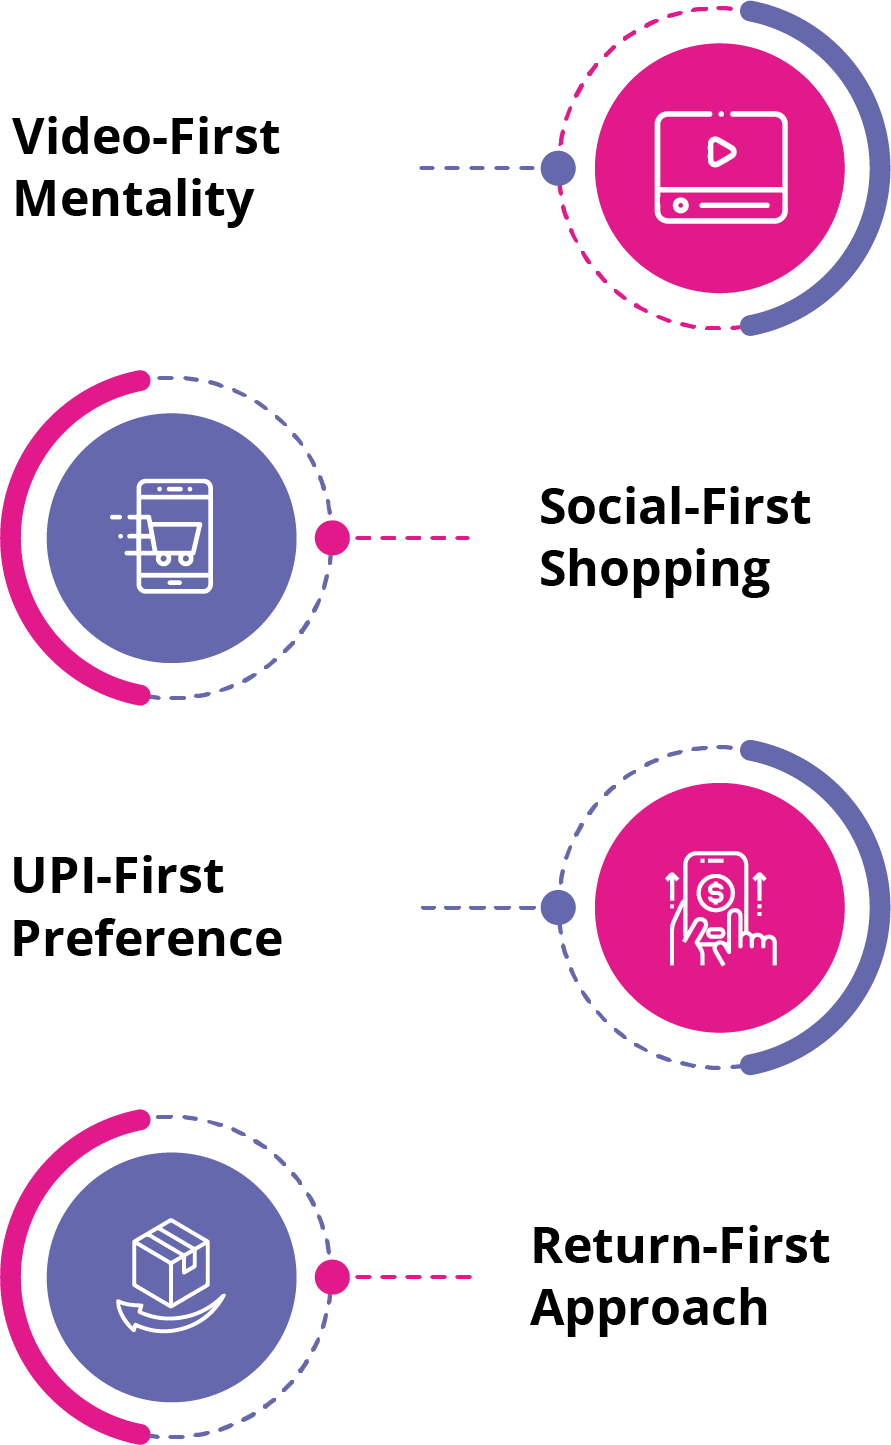
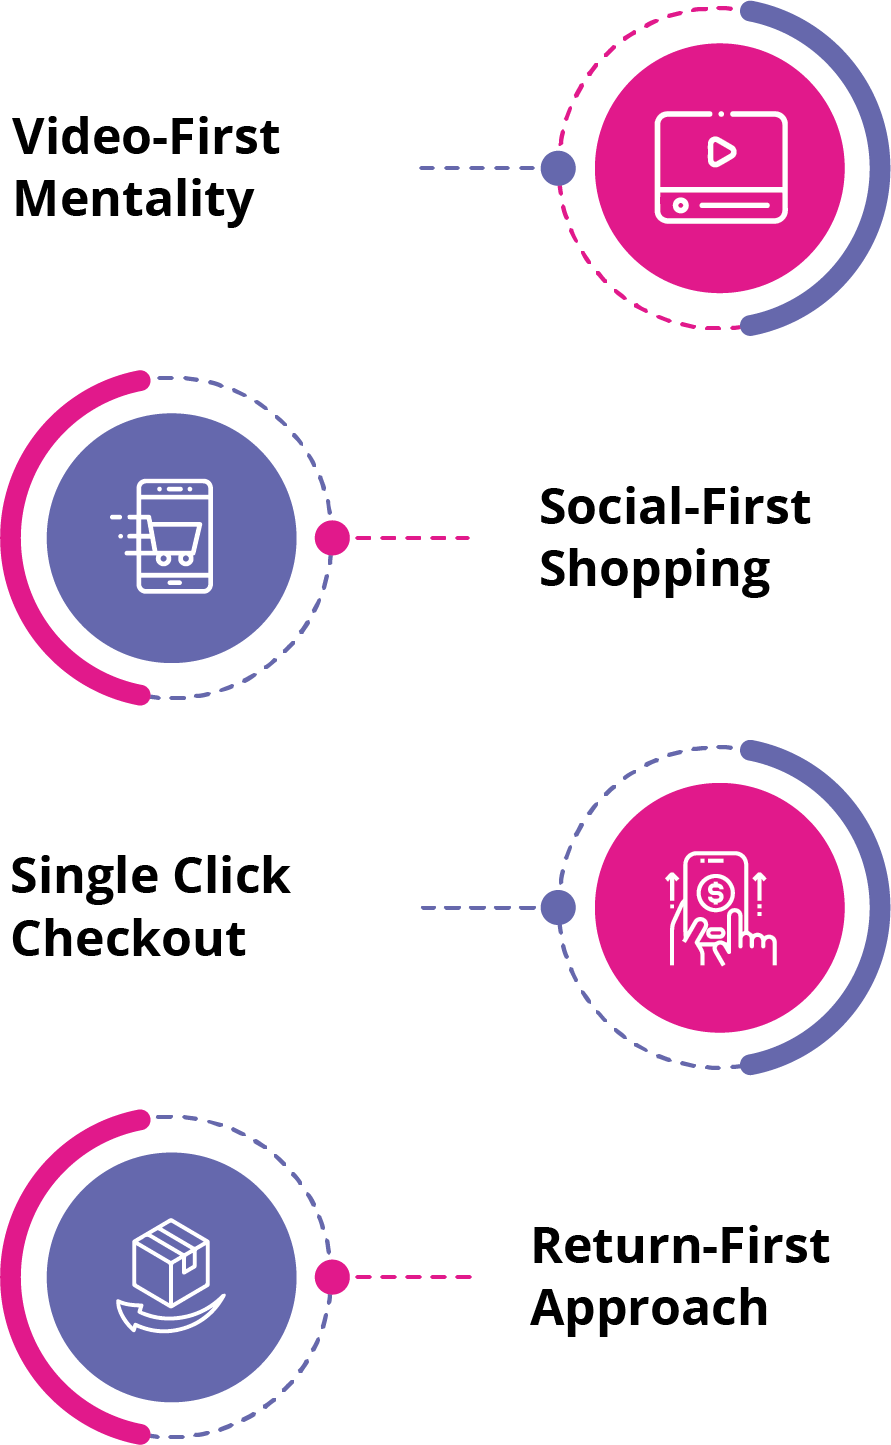
ui fix

Changed region(s): [[0.0, 0.5917, 0.3333, 0.6851]]

diff --git a/digital-marketing.html b/digital-marketing.html
@@ -91,7 +91,7 @@
                         <li id="subservices">
                             <a id="nav-link" href="e-commerce.html">E - Commerce</a>
                         </li>
-                        
+
                         <li><a id="nav-link" href="about-us.html">About Us</a></li>
                         <li id="desktopimage">
                             <div style="width: 100px; display: flex; justify-content: center;" id="contact-container">
@@ -131,10 +131,10 @@
                         style="display: flex; justify-content: center; align-items: center; flex-direction: column;">
                         <h1 style="font-weight: bold; width: 100%; text-align: center;"> Digital
                             Marketing</h1>
-                        <p style="max-width:800px; text-align: center;">Using our Digital marketing services you can
-                            enhance brand visibility and engagement through
-                            targeted online strategies, reaching a wider audience while enabling real-time performance
-                            tracking for effective campaign optimization.</p>
+                        <p style="max-width:800px; text-align: center;">Elevate your brand's visibility and engagement
+                            with digital marketing services. Through meticulously crafted online strategies, we help you
+                            connect with a broader audience while offering the advantage of immediate performance
+                            insights for the seamless optimization of your campaigns.</p>
                     </div>
                     <!--div class="col"
                         style="display: flex; justify-content: center; align-items: center;">
@@ -263,7 +263,8 @@
                                                 <p>SEO is a multifaceted approach designed to enhance your website's
                                                     visibility on search engines
                                                 </p>
-                                                <a id="readmorebtn" class="btn-simple" href=""><i class="fas fa-angle-right"></i> Read
+                                                <a id="readmorebtn" class="btn-simple" href=""><i
+                                                        class="fas fa-angle-right"></i> Read
                                                     More</a>
                                             </div>
                                         </div>
@@ -282,7 +283,8 @@
                                                 <p>Paid marketing emerges as a vital cog in the wheel of brand
                                                     recognition and customer acquisition
                                                     strategies.</p>
-                                                <a id="readmorebtn" class="btn-simple" href=""><i class="fas fa-angle-right"></i> Read
+                                                <a id="readmorebtn" class="btn-simple" href=""><i
+                                                        class="fas fa-angle-right"></i> Read
                                                     More</a>
                                             </div>
                                         </div>
@@ -301,7 +303,8 @@
                                                 <p>GRX10's social media marketing strategies are not just about
                                                     visibility; they're about creating a
                                                     lasting impact...</p>
-                                                <a id="readmorebtn" class="btn-simple" href=""><i class="fas fa-angle-right"></i> Read
+                                                <a id="readmorebtn" class="btn-simple" href=""><i
+                                                        class="fas fa-angle-right"></i> Read
                                                     More</a>
                                             </div>
                                         </div>
@@ -320,7 +323,8 @@
                                                 <p>Website engagement measures how effectively your site captivates and
                                                     retains visitors...</p>
 
-                                                <a id="readmorebtn" class="btn-simple" href=""><i class="fas fa-angle-right"></i> Read
+                                                <a id="readmorebtn" class="btn-simple" href=""><i
+                                                        class="fas fa-angle-right"></i> Read
                                                     More</a>
                                             </div>
                                         </div>
@@ -341,7 +345,8 @@
                                                     email, social media, and
                                                     websites...</p>
 
-                                                <a id="readmorebtn" class="btn-simple" href=""><i class="fas fa-angle-right"></i> Read
+                                                <a id="readmorebtn" class="btn-simple" href=""><i
+                                                        class="fas fa-angle-right"></i> Read
                                                     More</a>
                                             </div>
                                         </div>
@@ -381,7 +386,7 @@
 
     <!-- Start Footer 
     ============================================= -->
-   <footer>
+    <footer>
         <div class="container">
             <div class="f-items default-padding-top" style="border-bottom: 1px #D5D5D5 solid ;">
                 <div class="row">

diff --git a/product-marketing.html b/product-marketing.html
@@ -91,7 +91,7 @@
                         <li id="subservices">
                             <a id="nav-link" href="e-commerce.html">E - Commerce</a>
                         </li>
-                        
+
                         <li><a id="nav-link" href="about-us.html">About Us</a></li>
                         <li id="desktopimage">
                             <div style="width: 100px; display: flex; justify-content: center;" id="contact-container">
@@ -130,10 +130,9 @@
                     <div class="col"
                         style="display: flex; justify-content: center; align-items: center; flex-direction: column;">
                         <h1 style="font-weight: bold; width: 100%; text-align: center;"> Product Marketing</h1>
-                        <p style="max-width:800px; text-align: center;">Using our product marketing services you can strategically promote and position your product
-                            to target customers, highlight its unique features and benefits to boost sales and customer
-                            satisfaction. The goal is to create awareness, generate demand, and facilitate successful
-                            product launches in the market.</p>
+                        <p style="max-width:800px; text-align: center;">Enhance the competitive position of your product
+                            through the entire lifecycle with our comprehensive product marketing services: Expertly
+                            position and promote your products for maximum visibility and customer satisfaction.</p>
                     </div>
                     <!--div class="col"
                         style="display: flex; justify-content: center; align-items: center;">
@@ -258,7 +257,8 @@
                                                     market leader, incorporating market analysis, customer insights,
                                                     segmentation , and financial assessments.
                                                 </p>
-                                                <a id="readmorebtn" class="btn-simple" href="new-product-business-plan.html"><i
+                                                <a id="readmorebtn" class="btn-simple"
+                                                    href="new-product-business-plan.html"><i
                                                         class="fas fa-angle-right"></i> Read More</a>
                                             </div>
                                         </div>
@@ -278,7 +278,8 @@
                                                     We tap into your consumers core to improve your profit margins while
                                                     ensuring that the value proposition.
                                                 </p>
-                                                <a id="readmorebtn" class="btn-simple" href="new-product-business-plan.html"><i
+                                                <a id="readmorebtn" class="btn-simple"
+                                                    href="new-product-business-plan.html"><i
                                                         class="fas fa-angle-right"></i> Read More</a>
                                             </div>
                                         </div>
@@ -298,7 +299,8 @@
                                                     Our unique approach is all about creating a tangible connection
                                                     between your brand and its diverse stakeholders...
                                                 </p>
-                                                <a id="readmorebtn" class="btn-simple" href="new-product-business-plan.html"><i
+                                                <a id="readmorebtn" class="btn-simple"
+                                                    href="new-product-business-plan.html"><i
                                                         class="fas fa-angle-right"></i> Read More</a>
                                             </div>
                                         </div>
@@ -322,7 +324,8 @@
                                                     document; it's the roadmap to transforming your vision into a market
                                                     sensation.
                                                 </p>
-                                                <a id="readmorebtn" class="btn-simple" href="new-product-business-plan.html"><i
+                                                <a id="readmorebtn" class="btn-simple"
+                                                    href="new-product-business-plan.html"><i
                                                         class="fas fa-angle-right"></i> Read More</a>
                                             </div>
                                         </div>
@@ -363,7 +366,7 @@
 
     <!-- Start Footer 
     ============================================= -->
-   <footer>
+    <footer>
         <div class="container">
             <div class="f-items default-padding-top" style="border-bottom: 1px #D5D5D5 solid ;">
                 <div class="row">

diff --git a/e-commerce.html b/e-commerce.html
@@ -91,7 +91,7 @@
                         <li id="subservices">
                             <a id="nav-link" href="e-commerce.html">E - Commerce</a>
                         </li>
-                        
+
                         <li><a id="nav-link" href="about-us.html">About Us</a></li>
                         <li id="desktopimage">
                             <div style="width: 100px; display: flex; justify-content: center;" id="contact-container">
@@ -130,9 +130,10 @@
                     <div class="col"
                         style="display: flex; justify-content: center; align-items: center; flex-direction: column;">
                         <h1 style="font-weight: bold; width: 100%; text-align: center;"> E-Commerce</h1>
-                        <p style="max-width:800px; text-align: center;">Using our E-commerce services you can increase your global reach, break geographical
-                            barriers, increase your brand’s presence and provide unparalleled convenience with
-                            accessibility for your customers to shop anytime, anywhere.</p>
+                        <p style="max-width:800px; text-align: center;">Elevate your online retail experience with our
+                            E-commerce services, designed to expand your global footprint and dissolve geographical
+                            limits. Enhance your brand's visibility and offer unmatched convenience, allowing customers
+                            the freedom to shop from anywhere, at any time</p>
                     </div>
                     <!--div class="col"
                         style="display: flex; justify-content: center; align-items: center;">
@@ -174,12 +175,10 @@
                             <p style="line-height: normal;">
                                 Social media platforms have become pivotal in influencing purchase decisions and product
                                 recommendations.
-
-
                             </p>
                         </li>
                         <li style="width: 100%;">
-                            <h5 style="display: inline; font-size: 24px;">UPI-First Preference
+                            <h5 style="display: inline; font-size: 24px;">Single Click Checkout
                             </h5>
                             <p style="line-height: normal;">
                                 A strong inclination towards easy, quick, and secure digital payment methods.
@@ -260,7 +259,8 @@
                                                     to bolster your e-commerce
                                                     platform's efficiency...
                                                 </p>
-                                                <a id="readmorebtn" class="btn-simple" href=""><i class="fas fa-angle-right"></i> Read
+                                                <a id="readmorebtn" class="btn-simple" href=""><i
+                                                        class="fas fa-angle-right"></i> Read
                                                     More</a>
                                             </div>
                                         </div>
@@ -281,7 +281,8 @@
                                                     foundation for your consumer
                                                     products to excel..
                                                 </p>
-                                                <a id="readmorebtn" class="btn-simple" href=""><i class="fas fa-angle-right"></i> Read
+                                                <a id="readmorebtn" class="btn-simple" href=""><i
+                                                        class="fas fa-angle-right"></i> Read
                                                     More</a>
                                             </div>
                                         </div>
@@ -322,7 +323,7 @@
 
     <!-- Start Footer 
     ============================================= -->
-   <footer>
+    <footer>
         <div class="container">
             <div class="f-items default-padding-top" style="border-bottom: 1px #D5D5D5 solid ;">
                 <div class="row">

diff --git a/assets/css/responsive.css b/assets/css/responsive.css
@@ -384,6 +384,7 @@ h1{
 
 h2{
   font-size: 40px;
+  font-weight: 600;
 }
 
 /* Mobile Layout: 320px. */
